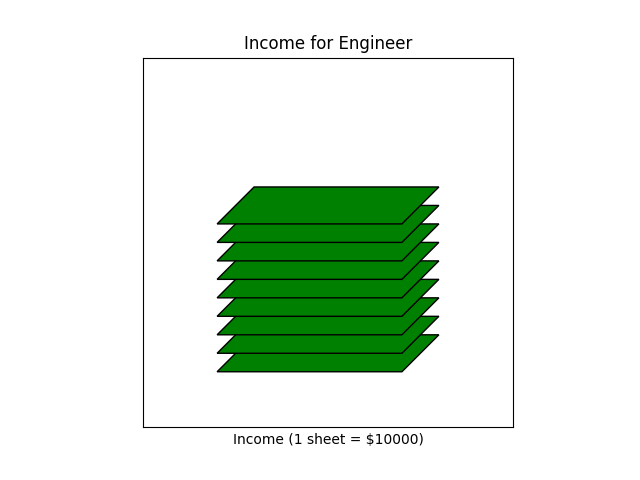
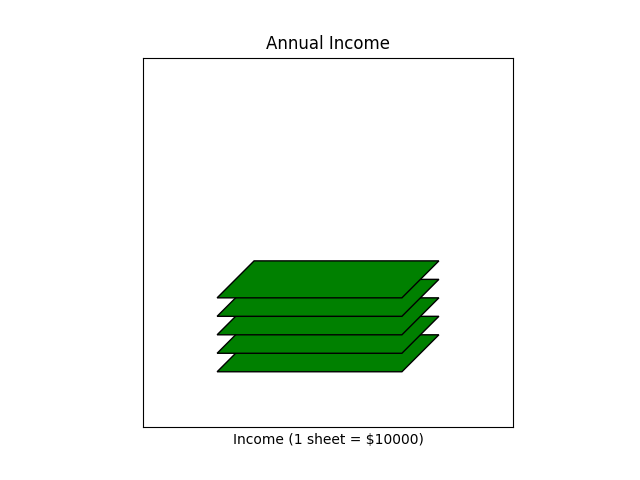
Edited README and Aboutourcode

Changed region(s): [[0.3438, 0.375, 0.6875, 0.5938], [0.375, 0.0625, 0.6562, 0.125]]

diff --git a/AboutOurCode.md b/AboutOurCode.md
@@ -50,14 +50,14 @@ def get_specfic_value(database, profession, datatype):
 ```
 
 ### Creating Graphs
-Using the data collected in csv format, we produced different graphs to visualize different types of data
+Using the data collected in csv format, we produced different graphs to visualize different types of data.
 
-The graphs are produced using the collected data. Some graphs simply takes the name of the occupation as an arguments, while some require pre-evaluated data to be the argument.
+The graphs are produced using the collected data. To make the process easier, the functions are designed such that the users simply type the job title into the function.
 
-For instance, the income diagram, which represents annual income with a stack of "dollar bills", requires the argument to be a numerical value.
+For instance, the income diagram, which represents annual income with a stack of "dollar bills", takes the job title and creates a graph.
 
 ```
-def create_income(income):
+def create_income(job):
     """
     This function creates a diagram that represents income using stack
     of "paper bills", which are green parallelograms. Each bill represents
@@ -65,7 +65,7 @@ def create_income(income):
     """
     fig = plt.figure()
     ax = fig.add_subplot(111, aspect='equal')
-    income = int(income) // 10000
+    income = int(dt.get_specfic_value(OES_df, job, 'annual mean wage')) // 10000
     for i in range(0,income):
         x = [0.2,0.7,.8,.3]
         y = [0.15 + i*0.05,0.15+i*0.05,0.25+i*0.05,0.25+i*0.05]
@@ -81,55 +81,59 @@ def create_income(income):
 As a result, this function generates graphs like this.
 ![]({{"income.png"|absolute_url}})
 
-On the other hand, the schedule diagram, which shows the percentage of people with particular occupation at work in specific hour frame, requires the input to be Pandas Series. The function separates the index, or the hour frame, from the data, which contains the percentages of people at work. The snippet below demonstrates this process.
-
+On the other hand, the schedule diagram, which shows the percentage of people with particular occupation at work in specific hour frame, simply asks for the string of job title. The function will then find the appropriate Pandas Series for the job, and create a bar graphs that shows the percentage of people at work in particular hour.
 ```
-def create_worktime(work_time):
+def create_worktime(job):
     """
     This function creates a histogram that shows the percentage of workers
     working throughout the 24 hour period.
-    Note: work_time is Pandas Series
     """
+    work_time = dt.get_time_row(timework_df, job)
     fig, ax = plt.subplots()
     time_list = work_time[0].index.tolist() + work_time[1].index.tolist()
     percent_list = work_time[0].tolist() + work_time[1].tolist()
     percent_list = [x for x in percent_list if "plumber" not in x]
     time_list = [x for x in time_list if "occupation" not in x]
     percent_list = list(map(float, percent_list))
-
+    for i in range(12, 24):
+        string = time_list[i]
+        if i == 12:
+            string = str(i) + ' pm'
+        else:
+            string = str(i-12) + ' pm'
+        time_list[i] = string
+    y_pos = np.arange(len(time_list))
+    bar = plt.bar(y_pos, percent_list, align='center', alpha=0.5)
+    plt.xticks(y_pos, time_list, rotation = 'vertical')
+    plt.ylabel('Percent of People at Work')
+    plt.title('When do they work?')
+    plt.show()
+    fig.savefig('time.png', transparent = True)
 ```
 
 As a result of this function, the graph below is created.
-![]({{"Pie_Chart.png"|absolute_url}})
+![]({{"time.png"|absolute_url}})
 
-To represent the population of people holding the particular job in the U.S., we used a create_population function, which produces a circle diagram, where the sizes of the two circles portray the ratio of the population holding particular job to the entire U.S. adult population. The create_population takes the integer as an argument.
+Other graphs also simply require the input of job title.
 
+Once all the graph-generating functions are created, we created a single function create_graphs that produces all the graphs at once. Once again, it only requires the job title.
 ```
-def create_population(population):
+def create_graphs(job):
     """
-    This is simply the snippet of the code.
-    This function creates a circle diagram that represents population holding
-    particular occupation in the U.S.
+    This function generates all the necessary graphs at once. You simply type
+    the occupation name.
     """
-    pop = int(dt.get_specfic_value(OES_df, population, 'employment'))
-    pop1 = pop/1000000
-    W, H = (500, 500)
+    create_population(job)
+    create_income(job)
+    compare_suicide(job)
+    get_gender(job)
+    get_race(job)
+    create_worktime(job)
+    create_map(job)
 ```
-
-![]({{"Population_circle_diagram.png"|absolute_url}})
-
-To display the suicide rate of people holding the job, we used a bar graph which compares the average suicide rate with the suicide rate of people with specific occupation.
-
-```
-def compare_happiness(a, b):
-```
-
-
-![]({{"Suicide_Rate.png"|absolute_url}})
-
 
 ### Creating an Interface
-Using Pygame as a platform for the interface of the visualization seemed like the best route to go considering our previous exprience with it as well as the not-so-bright reviews about other means of creating an interactive interface. The process has been pretty straightforward in terms of coding the infrastructure for it. It currrently remains as a click-based interface. 
+Using Pygame as a platform for the interface of the visualization seemed like the best route to go considering our previous exprience with it as well as the not-so-bright reviews about other means of creating an interactive interface. The process has been pretty straightforward in terms of coding the infrastructure for it. It currrently remains as a click-based interface.
 ![](./UI_pic.png)
 We aimed for a simplistic aethetic for the project.
 
@@ -152,7 +156,7 @@ class Screen():
     w,h = bg.get_size()
     bg = py.transform.scale(bg,(int(w*.7),int(h*.7))) #scaling for grey button that sometimes appears
     listOfNames  = ['Farmer','Software Developer','Surgeon','Mechanical Engineer',
-                    'Physicist','Plumber','Accountant'] #unhealthy hardcode but neccesary 
+                    'Physicist','Plumber','Accountant'] #unhealthy hardcode but neccesary
     z = False #zoom boolean
 
     def __init__(self,gD,name):

diff --git a/README.md b/README.md
@@ -25,8 +25,22 @@ The code that is responisble for extracting the data from files and preparing it
 ```
 output = get_specfic_value(gender_df, 'mechanical engineer', 'Man')
 ```
-will return the percentage of male mechanical engineers. 
+will return the percentage of male mechanical engineers.
+
 #### Creating Graphs
+To generate all the graphs for one particular occupation, on the bottom of the file graphs.py, type the following:
+```
+create_graphs(job)
+```
+where job is a string of the occupation name.
+
+Then, run the following command:
+```
+python graphs.py
+```
+
+This will create and save all graphs necessary for one particular occupation.
+Currently, the available jobs are mechanical engineers, surgeons, farmers, physicists, accountants, software developers, and plumbers.
 
 ### Creating the User Interface
 The UI code pull all of its images from a main folder that should contain all of the following:
